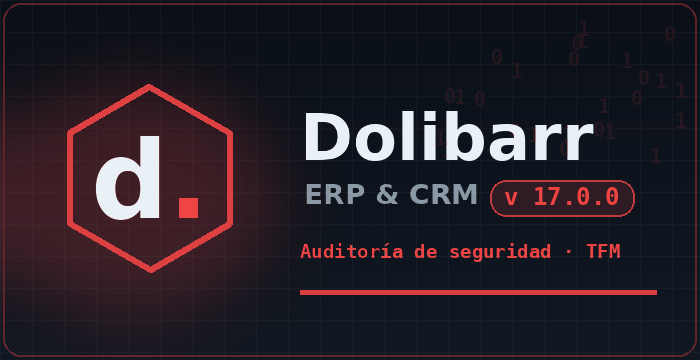
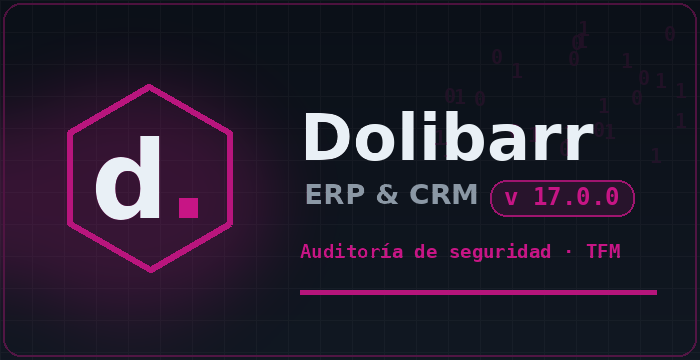
Dolibarr reescrito a fondo (TFM completo) + acento rosa oscuro; Updates home a 5 con badge "nueva"
- Dolibarr: write-up extenso con los 10 hallazgos (CVE/CVSS), cadena de ataque,
  controles que aguantan y metodologia OWASP; acento rosa oscuro (rojo solo para vulnerabilidades)
- Avatar y banner recoloreados a rosa oscuro
- Home: "Updates" muestra solo las 5 ultimas + badge "nueva" (posts < 48h) y enlace a todos
- Panel: "Maquinas destacadas" -> "Write-ups destacados"

diff --git a/_posts/2026-10-04-dolibarr.html b/_posts/2026-10-04-dolibarr.html
@@ -10,11 +10,12 @@ os: "Linux"
 difficulty: "Hard"
 thumb: "/assets/img/machines/dolibarr.png"
 banner: "/assets/img/machines/dolibarr-banner.png"
-description: "Mi TFM: auditoría de seguridad de Dolibarr ERP & CRM 17.0.0. RCE por un filtro sensible a mayúsculas (CVE-2023-30253), más RCE por campos calculados y XSS almacenado vía API REST."
+description: "Mi TFM: auditoría de seguridad de Dolibarr ERP & CRM 17.0.0 (OWASP ASVS, CVSS). 10 vulnerabilidades — 2 RCE y un XSS almacenado por API REST entre las críticas."
 toc: false
 status: "Resuelta"
 last_modified_at: "2026-10-04 18:00:00 +0200"
-accent: "239 68 68"
+accent: "199 21 133"
 ---
-<div class="hx-wu" data-os="lin" data-accent="239 68 68"><header class="hx-wu-head"><span class="hx-wu-img" style="background-image:url('/assets/img/machines/dolibarr.png')" role="img" aria-label="Dolibarr"></span><div class="hx-wu-headtext"><h1 class="hx-wu-title">Dolibarr</h1><p class="hx-wu-meta">Publicado por <b>Jaime Hereza Niño</b></p><div class="hx-wu-sub"><div class="hx-wu-dates"><span class="hx-wu-date"><i class="fas fa-calendar-day" aria-hidden="true"></i> Publicado 04/10/2026</span></div><span class="hx-wu-read"><i class="fas fa-clock" aria-hidden="true"></i> 5 min de lectura</span></div></div></header><table class="hx-wu-table"><thead><tr><th>Máquina</th><th>SO</th><th>Dificultad</th><th>IP</th></tr></thead><tbody><tr><td class="wu-name">Dolibarr</td><td class="wu-os wu-os-lin">Linux</td><td><span class="hx-badge hx-diff-hard">Hard</span></td><td class="wu-ip">127.0.0.1</td></tr></tbody></table><p class="hx-wu-note"><b><i>A tener en cuenta...</i></b></p><div class="hx-term2"><div class="hx-t-cmd"><span class="hx-t-ps1">┌──(<b>jaime</b>㉿<b>kali</b>)-[~]</span><span class="hx-t-ps2">└─$</span> <span class="hx-t-in">sudo nano /etc/hosts</span></div><div class="hx-t-out">127.0.0.1   dolibarr</div></div><nav class="hx-wu-index"><a href="#resumen" style="--c:255 94 135">Resumen</a><a href="#vulnerabilidad" style="--c:255 62 62">Vulnerabilidad</a><a href="#reconocimiento" style="--c:46 230 214">Reconocimiento</a><a href="#enumeracion" style="--c:94 180 248">Enumeración</a><a href="#explotacion" style="--c:255 175 0">Explotación</a><a href="#escalada" style="--c:193 108 255">Escalada de privilegios</a><a href="#arreglo" style="--c:46 230 214">Cómo se arregla</a><a href="#conclusiones" style="--c:200 210 220">Conclusiones</a></nav><section class="hx-wu-sec" id="resumen" style="--c:255 94 135"><h2>Resumen</h2><p>Dolibarr es distinto al resto del blog: no es una máquina de HackTheBox, es mi <span class="hx-cg">Trabajo Fin de Máster</span> de Ciberseguridad. Monté en laboratorio un <span class="hx-cg">Dolibarr ERP &amp;amp; CRM 17.0.0</span> (un ERP/CRM muy usado en pymes) y le hice una <span class="hx-cg">auditoría completa de caja gris</span> siguiendo metodología OWASP. Salieron <span class="hx-cg">10 vulnerabilidades, 3 de ellas críticas</span>: dos de <span class="hx-cg">ejecución remota de código</span> y un <span class="hx-cg">XSS almacenado a través de la API REST</span>. Aquí te resumo el camino a mi estilo; el informe entero (53 páginas, con CVSS, impacto y evidencias) lo tienes enlazado desde el Máster en <span class="hx-cg">Títulos</span>.</p></section><section class="hx-wu-sec" id="vulnerabilidad" style="--c:255 62 62"><h2>Vulnerabilidad</h2><p><span class="hx-cr">CVE-2023-30253 — RCE en el módulo «Sitios Web»</span></p><p>El módulo <span class="hx-cg">Sitios Web</span> permite crear páginas con código PHP y, para evitar abusos, <span class="hx-cg">filtra la etiqueta de apertura</span> <span class="hx-cc">&amp;lt;?php</span>. El problema es que el filtro es <span class="hx-cg">sensible a mayúsculas y minúsculas</span>: escribiendo <span class="hx-cc">&amp;lt;?pHp</span> se evade por completo, porque al intérprete de PHP le da igual la capitalización. Y como en ese editor <span class="hx-cg">no hay lista negra de funciones</span>, <span class="hx-ca">system()</span> se ejecuta sin restricción como <span class="hx-co">www-data</span>.</p><p><span class="hx-cr">RCE por campos calculados</span></p><p>Los <span class="hx-cg">campos calculados</span> se evalúan como PHP. Aquí sí existe una lista negra de funciones peligrosas, pero <span class="hx-cg">está incompleta</span>: basta emplear una función que no esté en la lista para ejecutar código (en la prueba devolvió la versión de PHP). Moraleja: las listas negras siempre se quedan cortas.</p><p><span class="hx-cr">XSS almacenado vía API REST</span></p><p>El saneamiento de la <span class="hx-ca">API REST</span> no cubre los vectores basados en <span class="hx-cg">atributos de eventos HTML</span>. Un payload introducido por la API se guarda <span class="hx-cg">sin sanear</span> y se ejecuta al visualizar el objeto en la interfaz web: un <span class="hx-cg">XSS almacenado</span> cuyo origen es la propia API.</p><p><span class="hx-cr">Credenciales de BD en texto plano (el eslabón)</span></p><p>El fichero <span class="hx-cc">conf.php</span> guarda la contraseña de MariaDB <span class="hx-cg">en claro</span> (la opción de cifrado que ofrece la aplicación está desactivada). Por sí solo ya es grave; combinado con el RCE es demoledor: con ejecución de comandos, se lee el fichero y se accede a toda la base de datos.</p></section><section class="hx-wu-sec" id="reconocimiento" style="--c:46 230 214"><h2>Reconocimiento</h2><p>La auditoría es de <span class="hx-cg">caja gris</span>: parto de una cuenta con <span class="hx-cg">privilegios bajos</span>, como un empleado cualquiera de la pyme. El objetivo corre en <span class="hx-cg">Docker</span>, publicado solo en loopback, así que identifico primero la pila</p><div class="hx-term2"><div class="hx-t-cmd"><span class="hx-t-ps1">┌──(<b>jaime</b>㉿<b>kali</b>)-[~]</span><span class="hx-t-ps2">└─$</span> <span class="hx-t-in">whatweb http://127.0.0.1</span></div><div class="hx-t-out"><span class="hx-cw">Dolibarr 17.0.0 [Apache/2.4.65 (Debian)] [PHP/8.1.34]</span></div></div><table class="hx-tbl" style="border-radius:12px"><tbody><tr><td style="border-top:1px solid #243244;border-left:1px solid #243244;text-align:center;font-weight:700;color:rgb(var(--page, 159 239 0))">Componente</td><td style="border-top:1px solid #243244;border-left:0;text-align:center;border-right:1px solid #243244;font-weight:700;color:rgb(var(--page, 159 239 0))">Versión</td></tr><tr><td style="border-top:3px solid rgb(var(--page, 159 239 0));border-left:1px solid #243244;text-align:left">Aplicación</td><td style="border-top:3px solid rgb(var(--page, 159 239 0));border-left:0;text-align:left;border-right:1px solid #243244">Dolibarr ERP &amp; CRM 17.0.0</td></tr><tr><td style="border-top:0;border-left:1px solid #243244;text-align:left">Servidor web</td><td style="border-top:0;border-left:0;text-align:left;border-right:1px solid #243244">Apache/2.4.65</td></tr><tr><td style="border-top:0;border-left:1px solid #243244;text-align:left">Intérprete</td><td style="border-top:0;border-left:0;text-align:left;border-right:1px solid #243244">PHP 8.1.34</td></tr><tr><td style="border-top:0;border-left:1px solid #243244;text-align:left">Base de datos</td><td style="border-top:0;border-left:0;text-align:left;border-right:1px solid #243244">MariaDB 10.6</td></tr><tr><td style="border-top:0;border-left:1px solid #243244;text-align:left;border-bottom:1px solid #243244">Despliegue</td><td style="border-top:0;border-left:0;text-align:left;border-bottom:1px solid #243244;border-right:1px solid #243244">Docker (php:8.1-apache)</td></tr></tbody></table><p>Una versión de Dolibarr <span class="hx-cg">desactualizada</span> es justo lo que queremos: arrastra vulnerabilidades conocidas y públicas con las que ejercitar la auditoría de principio a fin.</p></section><section class="hx-wu-sec" id="enumeracion" style="--c:94 180 248"><h2>Enumeración</h2><p>Con la cuenta de bajo privilegio reviso <span class="hx-cg">cabeceras</span>, componentes y, sobre todo, los <span class="hx-cg">módulos activos</span> de la instancia (un escenario típico de pyme): <span class="hx-cg">Terceros</span>, <span class="hx-cg">Usuarios y grupos</span>, <span class="hx-cg">API REST</span> y <span class="hx-cg">Sitios Web</span>.</p><p>De ahí salen las superficies jugosas:</p><ul class="hx-wu-list"><li>El módulo <span class="hx-cg">Sitios Web</span>, que deja crear páginas con <span class="hx-cg">PHP</span>.</li><li>Los <span class="hx-cg">campos calculados</span>, que se evalúan como código.</li><li>La <span class="hx-cg">API REST</span>, por donde se crean y modifican objetos de negocio.</li></ul><p>También anoto el resto de deficiencias para el informe: sin cifrado en tránsito, política de contraseñas floja, cabeceras y cookies mal configuradas, componentes desactualizados y mensajes de error que filtran versiones.</p></section><section class="hx-wu-sec" id="explotacion" style="--c:255 175 0"><h2>Explotación</h2><p>El vector estrella es el <span class="hx-cg">módulo Sitios Web</span>. Creo una página y, en el editor, meto el payload con la etiqueta de apertura <span class="hx-cg">capada en mayúsculas</span> para esquivar el filtro</p><div class="hx-term2"><div class="hx-t-out">&lt;?pHp system('id'); ?&gt;</div></div><p>Guardo la página y solicito su <span class="hx-cg">URL pública</span> de renderizado; al servirla, PHP ejecuta el comando</p><div class="hx-term2"><div class="hx-t-out">uid=33(www-data) gid=33(www-data) groups=33(www-data)</div></div><p><span class="hx-cw">Ya tenemos ejecución de comandos como www-data.</span></p><p>Los otros dos vectores van en la misma línea: en los <span class="hx-cg">campos calculados</span>, una función fuera de la lista negra me devuelve la versión de PHP (RCE confirmada); y por la <span class="hx-ca">API REST</span> inyecto un payload en un <span class="hx-cg">atributo de evento</span> que termina saltando como <span class="hx-cg">XSS almacenado</span> al abrir el objeto en el panel.</p></section><section class="hx-wu-sec" id="escalada" style="--c:193 108 255"><h2>Escalada de privilegios</h2><p>Con ejecución de comandos como <span class="hx-co">www-data</span>, el siguiente paso es claro: leer el fichero de configuración de la aplicación</p><div class="hx-term2"><div class="hx-t-out">www-data$ grep dolibarr_main_db_pass /var/www/html/conf/conf.php
-<span class="hx-cw">$dolibarr_main_db_pass='********';</span></div></div><p>La contraseña de <span class="hx-cg">MariaDB está en texto plano</span> (la opción de cifrado estaba desactivada). Con ella entro directamente a la base de datos y me hago con el <span class="hx-cg">control total de la información de negocio</span>: terceros, facturas, usuarios...</p><p>Esta es la <span class="hx-cg">cadena de ataque completa</span>: usuario de pocos privilegios (favorecido por una política de contraseñas floja) → <span class="hx-cg">RCE en Sitios Web</span> → comandos como <span class="hx-co">www-data</span> → credenciales del <span class="hx-cc">conf.php</span> → <span class="hx-cg">base de datos entera</span>. Una vulnerabilidad de severidad media acaba siendo el facilitador de un compromiso crítico.</p></section><section class="hx-wu-sec" id="arreglo" style="--c:46 230 214"><h2>Cómo se arregla</h2><p>Casi todo se corrige <span class="hx-cg">actualizando Dolibarr</span> (las versiones posteriores arreglan estos fallos), pero conviene verlo por capas:</p><ul class="hx-wu-list"><li><span class="hx-cw">Módulo Sitios Web:</span> no filtrar por cadena literal ni de forma sensible a mayúsculas; lo correcto es <span class="hx-cg">no evaluar PHP del usuario</span> o restringirlo con una lista blanca estricta.</li><li><span class="hx-cw">Campos calculados:</span> las listas negras de funciones siempre se sortean; mejor una <span class="hx-cg">lista blanca</span> o directamente un entorno sin ejecución de código.</li><li><span class="hx-cw">API REST:</span> sanear y escapar la salida también para los <span class="hx-cg">atributos de eventos HTML</span>, no solo las etiquetas.</li><li><span class="hx-cw">conf.php:</span> activar el <span class="hx-cg">cifrado de la contraseña</span> de la base de datos y restringir los permisos del fichero.</li><li><span class="hx-cw">Resto de hallazgos:</span> cifrado en tránsito (TLS), política de contraseñas sólida, cabeceras y cookies de seguridad, actualización de componentes y mensajes de error genéricos.</li></ul></section><section class="hx-wu-sec" id="conclusiones" style="--c:200 210 220"><h2>Conclusiones</h2><p>Dolibarr 17.0.0 demuestra algo que se repite en auditorías reales: <span class="hx-cg">un solo fallo de validación</span> (un filtro sensible a mayúsculas) basta para pasar de un usuario normal a <span class="hx-cg">ejecución de comandos</span>, y de ahí, tirando del <span class="hx-cc">conf.php</span>, al <span class="hx-cg">control total</span> del sistema.</p><p>También deja una idea muy clara: las <span class="hx-cg">listas negras</span> (de etiquetas o de funciones) son un parche que siempre se puede esquivar, frente a las <span class="hx-cg">listas blancas</span>, que deniegan por defecto.</p><p>Y lo más importante: casi todos los fallos están <span class="hx-cg">corregidos en versiones posteriores</span>, así que la mejor defensa sigue siendo <span class="hx-cg">mantener el software actualizado</span>. El informe completo con los 10 hallazgos, su CVSS, impacto y evidencias es mi <span class="hx-cg">TFM</span>, enlazado desde el Máster en Ciberseguridad en la pestaña de <span class="hx-cg">Títulos</span>.</p></section></div>
+<div class="hx-wu" data-os="lin" data-accent="199 21 133"><header class="hx-wu-head"><span class="hx-wu-img" style="background-image:url('/assets/img/machines/dolibarr.png')" role="img" aria-label="Dolibarr"></span><div class="hx-wu-headtext"><h1 class="hx-wu-title">Dolibarr</h1><p class="hx-wu-meta">Publicado por <b>Jaime Hereza Niño</b></p><div class="hx-wu-sub"><div class="hx-wu-dates"><span class="hx-wu-date"><i class="fas fa-calendar-day" aria-hidden="true"></i> Publicado 04/10/2026</span></div><span class="hx-wu-read"><i class="fas fa-clock" aria-hidden="true"></i> 7 min de lectura</span></div></div></header><table class="hx-wu-table"><thead><tr><th>Máquina</th><th>SO</th><th>Dificultad</th><th>IP</th></tr></thead><tbody><tr><td class="wu-name">Dolibarr</td><td class="wu-os wu-os-lin">Linux</td><td><span class="hx-badge hx-diff-hard">Hard</span></td><td class="wu-ip">127.0.0.1</td></tr></tbody></table><p class="hx-wu-note"><b><i>A tener en cuenta...</i></b></p><div class="hx-term2"><div class="hx-t-cmd"><span class="hx-t-ps1">┌──(<b>jaime</b>㉿<b>kali</b>)-[~]</span><span class="hx-t-ps2">└─$</span> <span class="hx-t-in">sudo nano /etc/hosts</span></div><div class="hx-t-out">127.0.0.1   dolibarr</div></div><nav class="hx-wu-index"><a href="#resumen" style="--c:255 94 135">Resumen</a><a href="#vulnerabilidad" style="--c:255 62 62">Vulnerabilidad</a><a href="#reconocimiento" style="--c:46 230 214">Reconocimiento</a><a href="#enumeracion" style="--c:94 180 248">Enumeración</a><a href="#explotacion" style="--c:255 175 0">Explotación</a><a href="#escalada" style="--c:193 108 255">Escalada de privilegios</a><a href="#arreglo" style="--c:46 230 214">Cómo se arregla</a><a href="#conclusiones" style="--c:200 210 220">Conclusiones</a></nav><section class="hx-wu-sec" id="resumen" style="--c:255 94 135"><h2>Resumen</h2><p>Dolibarr es especial: no es una box de HackTheBox, es mi <span class="hx-cg">Trabajo Fin de Máster</span> de Ciberseguridad. Monté un <span class="hx-cg">Dolibarr ERP &amp;amp; CRM 17.0.0</span> en laboratorio (Docker) y le hice una <span class="hx-cg">auditoría completa de caja gris</span> siguiendo <span class="hx-cg">OWASP ASVS 5.0</span> y <span class="hx-cg">OWASP Top 10</span>, puntuando cada hallazgo con <span class="hx-cg">CVSS v3.1</span> y entregando un informe con el formato que le darías a un cliente real.</p><p>El resultado: <span class="hx-cg">10</span> <span class="hx-cr">vulnerabilidades</span> confirmadas y explotadas — <span class="hx-co">3 críticas</span>, 1 alta, 2 medias y 4 bajas. Entre ellas, <span class="hx-cg">dos vectores de ejecución remota de código</span> y un <span class="hx-cg">XSS almacenado a través de la API REST</span> que acaban comprometiendo el servidor entero. Pero lo interesante no es solo lo que falla: también verifiqué <span class="hx-cg">controles que aguantan</span> (SQLi, IDOR, subida de ficheros, CSRF), lo que da una foto realista del estado de la aplicación.</p><p>Aquí traslado el recorrido a mi estilo; el <span class="hx-cg">informe completo</span> (53 páginas, con CVSS, impacto, recomendación y evidencias de cada hallazgo) es el TFM, enlazado desde el Máster en <span class="hx-cg">Títulos</span>.</p></section><section class="hx-wu-sec" id="vulnerabilidad" style="--c:255 62 62"><h2>Vulnerabilidad</h2><p>Este es el corazón del trabajo. Confirmé y exploté <span class="hx-cr">diez vulnerabilidades</span>; aquí van las que marcan la diferencia, con su CVE y su CVSS.</p><p><span class="hx-cr">01 · RCE en el módulo «Sitios Web» — CVE-2023-30253 (Crítica · 8.8)</span></p><p>El módulo «Sitios Web» permite crear páginas con código PHP y, para evitar abusos, <span class="hx-cg">filtra la etiqueta de apertura</span> <span class="hx-cc">&amp;lt;?php</span>. El filtro es <span class="hx-cg">sensible a mayúsculas</span>: con <span class="hx-cc">&amp;lt;?pHp</span> se evade por completo, porque al intérprete le da igual la capitalización. Y como ahí <span class="hx-cg">no hay lista negra de funciones</span>, <span class="hx-ca">system()</span> se ejecuta tal cual como <span class="hx-co">www-data</span>. Corregido a partir de la 17.0.1.</p><p><span class="hx-cr">02 · Credenciales de BD en texto plano — Crítica (9.1)</span></p><p>El <span class="hx-cc">conf.php</span> guarda la contraseña de MariaDB <span class="hx-cg">en claro</span>: la opción de cifrado existe, pero viene <span class="hx-cg">desactivada por defecto</span>. Suena a poco, pero es el <span class="hx-cg">eslabón</span> que convierte una ejecución de comandos limitada en control total de la base de datos.</p><p><span class="hx-cr">03 · XSS almacenado vía API REST — CVE-2023-38888 (Crítica · 9.6)</span></p><p>La API REST saneaba la entrada... pero <span class="hx-cg">no los atributos de eventos HTML</span> (<span class="hx-ca">onerror</span>, <span class="hx-ca">onload</span>). Un payload metido por la API en un campo de un <span class="hx-cg">tercero</span> se guarda sin sanear y <span class="hx-cg">salta al abrir la ficha</span> en el panel — incluso si quien la abre es un <span class="hx-co">administrador</span>. Permite robar sesiones y hasta el <span class="hx-cg">token anti-CSRF</span>, abriendo la puerta a encadenar otros ataques.</p><p><span class="hx-cr">04 · RCE por campos calculados — CVE-2024-40137 (Alta · 7.2)</span></p><p>Los «campos adicionales» tienen un «valor calculado» que se evalúa como PHP con <span class="hx-cc">dol_eval()</span>. Aquí sí hay lista negra de funciones, pero <span class="hx-cg">incompleta</span>: con una función no filtrada (<span class="hx-cc">phpversion()</span>) se ejecuta código igual (devolvió la 8.1.34). La lección de siempre: <span class="hx-cg">las listas negras se quedan cortas</span>.</p><p>Y, por debajo, media docena de severidad media/baja que salen en el escaneo: <span class="hx-cg">sin HTTPS</span>, <span class="hx-cg">política de contraseñas floja</span>, <span class="hx-cg">cabeceras</span> y <span class="hx-cg">cookies</span> mal puestas, <span class="hx-cg">jQuery desactualizado</span> y <span class="hx-cg">fuga de información en los errores</span>. Las desgrano en Enumeración.</p></section><section class="hx-wu-sec" id="reconocimiento" style="--c:46 230 214"><h2>Reconocimiento</h2><p>La auditoría es de <span class="hx-cg">caja gris</span>: arranco con una cuenta de <span class="hx-cg">privilegios bajos</span>, como un empleado cualquiera de la pyme. El objetivo corre en <span class="hx-cg">Docker</span> y se publica solo en loopback, así que lo primero es fijar la pila</p><div class="hx-term2"><div class="hx-t-cmd"><span class="hx-t-ps1">┌──(<b>jaime</b>㉿<b>kali</b>)-[~]</span><span class="hx-t-ps2">└─$</span> <span class="hx-t-in">whatweb http://127.0.0.1</span></div><div class="hx-t-out"><span class="hx-cw">Dolibarr 17.0.0 [Apache/2.4.65 (Debian)] [PHP/8.1.34]</span></div></div><table class="hx-tbl" style="border-radius:12px"><tbody><tr><td style="border-top:1px solid #243244;border-left:1px solid #243244;text-align:center;font-weight:700;color:rgb(var(--page, 159 239 0))">Componente</td><td style="border-top:1px solid #243244;border-left:0;text-align:center;border-right:1px solid #243244;font-weight:700;color:rgb(var(--page, 159 239 0))">Versión</td></tr><tr><td style="border-top:3px solid rgb(var(--page, 159 239 0));border-left:1px solid #243244;text-align:left">Aplicación</td><td style="border-top:3px solid rgb(var(--page, 159 239 0));border-left:0;text-align:left;border-right:1px solid #243244">Dolibarr ERP &amp; CRM 17.0.0</td></tr><tr><td style="border-top:0;border-left:1px solid #243244;text-align:left">Servidor web</td><td style="border-top:0;border-left:0;text-align:left;border-right:1px solid #243244">Apache/2.4.65 (Debian)</td></tr><tr><td style="border-top:0;border-left:1px solid #243244;text-align:left">Intérprete</td><td style="border-top:0;border-left:0;text-align:left;border-right:1px solid #243244">PHP 8.1.34</td></tr><tr><td style="border-top:0;border-left:1px solid #243244;text-align:left">Base de datos</td><td style="border-top:0;border-left:0;text-align:left;border-right:1px solid #243244">MariaDB 10.6</td></tr><tr><td style="border-top:0;border-left:1px solid #243244;text-align:left">Despliegue</td><td style="border-top:0;border-left:0;text-align:left;border-right:1px solid #243244">Docker (php:8.1-apache)</td></tr><tr><td style="border-top:0;border-left:1px solid #243244;text-align:left;border-bottom:1px solid #243244">Objetivo</td><td style="border-top:0;border-left:0;text-align:left;border-bottom:1px solid #243244;border-right:1px solid #243244">http://127.0.0.1:80</td></tr></tbody></table><p>El laboratorio y el enfoque siguen una <span class="hx-cg">metodología profesional</span>: <span class="hx-cg">OWASP ASVS 5.0</span> (nivel 1) y <span class="hx-cg">OWASP Top 10</span> como marco, <span class="hx-cg">CVSS v3.1</span> para puntuar, y herramientas como <span class="hx-cg">Burp Suite</span> y <span class="hx-cg">testssl.sh</span>. La versión está <span class="hx-cg">desactualizada</span> a propósito: así arrastra fallos conocidos con los que recorrer la auditoría de principio a fin.</p></section><section class="hx-wu-sec" id="enumeracion" style="--c:94 180 248"><h2>Enumeración</h2><p>Con la cuenta de bajo privilegio reviso la aplicación a fondo. Los módulos activos de una pyme típica (<span class="hx-cg">Terceros</span>, <span class="hx-cg">Usuarios</span>, <span class="hx-cg">API REST</span> y <span class="hx-cg">Sitios Web</span>) ya apuntan las superficies jugosas, pero el escaneo saca además varias deficiencias de configuración:</p><ul class="hx-wu-list"><li><span class="hx-cw">Sin cifrado en tránsito:</span> <span class="hx-cc">testssl.sh</span> confirma que no se ofrece ningún protocolo seguro ni hay certificado — todo viaja en HTTP, credenciales incluidas &lt;i&gt;(Media · 5.9)&lt;/i&gt;.</li><li><span class="hx-cw">Política de contraseñas floja:</span> el validador «Standard» solo exige 12 caracteres, sin complejidad. Coló <span class="hx-cc">contraseñadebil</span> sin pestañear, y no hay bloqueo por intentos &lt;i&gt;(Media · 5.3)&lt;/i&gt;.</li><li><span class="hx-cw">Cabeceras:</span> faltan <span class="hx-ca">Content-Security-Policy</span>, <span class="hx-ca">HSTS</span> y <span class="hx-ca">Permissions-Policy</span>, y <span class="hx-ca">Server</span>/<span class="hx-ca">X-Powered-By</span> cantan las versiones exactas &lt;i&gt;(Baja · 3.7)&lt;/i&gt;.</li><li><span class="hx-cw">Cookies:</span> <span class="hx-cc">DOLSESSID</span> sin <span class="hx-ca">Secure</span> y <span class="hx-cc">DOLINSTALLNOPING</span> sin <span class="hx-ca">HttpOnly</span> y con <span class="hx-ca">SameSite=None</span> &lt;i&gt;(Baja · 3.1)&lt;/i&gt;.</li><li><span class="hx-cw">Software desactualizado:</span> <span class="hx-cg">jQuery 3.6.0</span> y <span class="hx-cg">jQuery UI 1.13.2</span> &lt;i&gt;(Baja · 3.1)&lt;/i&gt;.</li><li><span class="hx-cw">Fuga en errores:</span> <span class="hx-cc">display_errors</span> activo revela rutas internas (<span class="hx-cc">/var/www/html/...</span>) y la versión de Apache en los 404 &lt;i&gt;(Baja · 3.7)&lt;/i&gt;.</li></ul><p>Ninguna tumba el servidor por sí sola, pero <span class="hx-cg">allanan el terreno</span> y amplifican las críticas (la falta de CSP, por ejemplo, deja al XSS campar a sus anchas).</p></section><section class="hx-wu-sec" id="explotacion" style="--c:255 175 0"><h2>Explotación</h2><p>Toca convertir los hallazgos en ejecución real.</p><p><span class="hx-cg">RCE en «Sitios Web».</span> Creo una página en el módulo y, en el editor, meto el payload con la etiqueta capada en mayúsculas para esquivar el filtro</p><div class="hx-term2"><div class="hx-t-out">&lt;?pHp system('id'); ?&gt;</div></div><p>Pido la <span class="hx-cg">URL pública</span> de la página y, al renderizarse, PHP ejecuta el comando</p><div class="hx-term2"><div class="hx-t-out">uid=33(www-data) gid=33(www-data) groups=33(www-data)</div></div><p><span class="hx-cw">Ejecución de comandos como www-data.</span></p><p><span class="hx-cg">RCE por campos calculados.</span> En un «valor calculado» (que pasa por <span class="hx-cc">dol_eval()</span>) meto una función fuera de la lista negra</p><div class="hx-term2"><div class="hx-t-out">phpversion()</div></div><div class="hx-term2"><div class="hx-t-out">8.1.34</div></div><p>Código PHP ejecutado en el servidor, lista negra esquivada.</p><p><span class="hx-cg">XSS almacenado por la API.</span> Mando por la <span class="hx-ca">API REST</span> un tercero con un atributo de evento en un campo de texto</p><div class="hx-term2"><div class="hx-t-cmd"><span class="hx-t-ps1">┌──(<b>jaime</b>㉿<b>kali</b>)-[~]</span><span class="hx-t-ps2">└─$</span> <span class="hx-t-in">curl -X POST http://127.0.0.1/api/index.php/thirdparties \</span></div><div class="hx-t-out">    -H 'DOLAPIKEY: &amp;lt;token&amp;gt;' -H 'Content-Type: application/json' \
+    -d '{"name":"&amp;lt;img src=x onerror=alert(document.cookie)&amp;gt;"}'</div></div><p>El payload se guarda sin sanear y <span class="hx-cg">salta solo</span> al abrir la ficha del tercero en el panel — también si quien la abre es un <span class="hx-co">administrador</span>.</p></section><section class="hx-wu-sec" id="escalada" style="--c:193 108 255"><h2>Escalada de privilegios</h2><p>El RCE me deja como <span class="hx-co">www-data</span>, un usuario limitado. El salto a <span class="hx-cg">control total</span> lo da el hallazgo 02: leo el fichero de configuración</p><div class="hx-term2"><div class="hx-t-out">www-data$ grep dolibarr_main_db_pass /var/www/html/conf/conf.php
+<span class="hx-cw">$dolibarr_main_db_pass='********';</span></div></div><p>Contraseña de <span class="hx-cg">MariaDB en texto plano</span>. Con ella entro a la base de datos y me llevo <span class="hx-cg">todo</span>: terceros, facturas, usuarios y sus hashes.</p><p>La <span class="hx-cg">cadena completa</span> queda así: contraseña floja → cuenta de bajo privilegio → <span class="hx-cg">RCE en «Sitios Web»</span> → comandos como <span class="hx-co">www-data</span> → <span class="hx-cc">conf.php</span> → <span class="hx-cg">base de datos entera</span>. Una debilidad «media» (la política de contraseñas) acaba siendo el facilitador de un compromiso crítico.</p><p>Y algo que me pareció importante documentar: <span class="hx-cg">no todo falla</span>. Puse a prueba y <span class="hx-cg">aguantaron</span> la inyección <span class="hx-cg">SQL</span> (consultas parametrizadas y listas blancas de campos), el <span class="hx-cg">control de acceso</span> (IDOR denegado con un usuario de pocos permisos), la <span class="hx-cg">subida de ficheros</span> y el <span class="hx-cg">path traversal</span> (neutralizados con sufijos y saneo de rutas) y el <span class="hx-cg">CSRF</span> (petición rechazada sin token). La seguridad de una aplicación <span class="hx-cg">no es homogénea</span>.</p></section><section class="hx-wu-sec" id="arreglo" style="--c:46 230 214"><h2>Cómo se arregla</h2><p>El informe lleva una recomendación por hallazgo, pero el resumen por capas es:</p><ul class="hx-wu-list"><li><span class="hx-cw">Actualizar Dolibarr:</span> los dos RCE y el XSS están corregidos a partir de la <span class="hx-cg">17.0.1</span>. Es la medida número uno.</li><li><span class="hx-cw">Validación por lista blanca:</span> en «Sitios Web», no evaluar PHP del usuario (o filtrar de forma insensible a mayúsculas contemplando todas las variantes); en campos calculados, cambiar la lista negra por <span class="hx-cg">lista blanca</span> o quitar la evaluación dinámica de código.</li><li><span class="hx-cw">Codificar la salida + CSP:</span> sanear también los atributos de evento (<span class="hx-ca">onerror</span>, <span class="hx-ca">onload</span>) y añadir <span class="hx-ca">Content-Security-Policy</span> para frenar el XSS.</li><li><span class="hx-cw">Cifrar el conf.php:</span> activar el cifrado de la contraseña de BD y restringir los permisos del fichero.</li><li><span class="hx-cw">HTTPS:</span> servir solo por TLS, redirigir todo el HTTP y marcar las cookies <span class="hx-ca">Secure</span> y <span class="hx-ca">HttpOnly</span>.</li><li><span class="hx-cw">Resto:</span> validador «Perso» con complejidad y bloqueo por intentos, cabeceras de seguridad, actualizar jQuery/jQuery UI y desactivar <span class="hx-cc">display_errors</span> en producción.</li></ul></section><section class="hx-wu-sec" id="conclusiones" style="--c:200 210 220"><h2>Conclusiones</h2><p>Dolibarr 17.0.0 <span class="hx-cg">no es apta para producción sin actualizar</span>: acumula críticas de ejecución de código y de validación de entrada. El resumen de severidades de las 10 <span class="hx-cr">vulnerabilidades</span>:</p><table class="hx-tbl" style="border-radius:12px"><tbody><tr><td style="border-top:1px solid #243244;border-left:1px solid #243244;text-align:center;font-weight:700;color:rgb(var(--page, 159 239 0))">Severidad</td><td style="border-top:1px solid #243244;border-left:0;text-align:center;border-right:1px solid #243244;font-weight:700;color:rgb(var(--page, 159 239 0))">Hallazgos</td></tr><tr><td style="border-top:3px solid rgb(var(--page, 159 239 0));border-left:1px solid #243244;text-align:left">Crítica (9.0–10.0)</td><td style="border-top:3px solid rgb(var(--page, 159 239 0));border-left:0;text-align:left;border-right:1px solid #243244">3</td></tr><tr><td style="border-top:0;border-left:1px solid #243244;text-align:left">Alta (7.0–8.9)</td><td style="border-top:0;border-left:0;text-align:left;border-right:1px solid #243244">1</td></tr><tr><td style="border-top:0;border-left:1px solid #243244;text-align:left">Media (4.0–6.9)</td><td style="border-top:0;border-left:0;text-align:left;border-right:1px solid #243244">2</td></tr><tr><td style="border-top:0;border-left:1px solid #243244;text-align:left;border-bottom:1px solid #243244">Baja (0.1–3.9)</td><td style="border-top:0;border-left:0;text-align:left;border-bottom:1px solid #243244;border-right:1px solid #243244">4</td></tr></tbody></table><p>Lo más interesante del análisis es el <span class="hx-cg">contraste</span>: mientras las defensas frente a la ejecución de código fallan (filtros sensibles a mayúsculas, listas negras evadibles), los controles de acceso a ficheros y a objetos <span class="hx-cg">aguantan</span>. Eso demuestra que un enfoque de <span class="hx-cg">lista negra</span> es intrínsecamente más frágil que uno de <span class="hx-cg">lista blanca + codificación de salida</span>.</p><p>Y la moraleja de siempre: casi todo se arregla <span class="hx-cg">actualizando</span>. El <span class="hx-cg">informe completo</span> (53 páginas, metodología OWASP ASVS 5.0, los 10 hallazgos con CVSS, impacto, recomendación y evidencias) es mi <span class="hx-cg">TFM</span>, enlazado desde el Máster en Títulos.</p></section></div>

diff --git a/_layouts/home.html b/_layouts/home.html
@@ -60,12 +60,16 @@ layout: default
 {% endif %}
 
 <div id="post-list" class="hx-mlist flex-grow-1 px-xl-1">
-  {% for post in posts %}
+  {% assign now_s = site.time | date: '%s' | plus: 0 %}
+  {% for post in site.posts limit: 5 %}
     {% assign os_down = post.os | default: '' | downcase %}
     {% if os_down contains 'windows' %}{% assign os_key = 'windows' %}
     {% elsif os_down contains 'linux' %}{% assign os_key = 'linux' %}
     {% else %}{% assign os_key = 'otros' %}{% endif %}
+    {% assign post_s = post.last_modified_at | default: post.date | date: '%s' | plus: 0 %}
+    {% assign age = now_s | minus: post_s %}
     <a class="hx-mcard" data-os="{{ os_key }}" data-diff="{{ post.difficulty | default: '' | downcase }}" href="{{ post.url | relative_url }}" data-name="{{ post.machine | default: post.title | downcase }}" data-platform="{{ post.platform | default: '' | downcase | remove: ' ' }}"{% if post.accent %} style="--m: {{ post.accent }}"{% endif %}>
+      {% if age >= 0 and age < 172800 %}<span class="hx-new"><span class="hx-new-dot" aria-hidden="true"></span>nueva</span>{% endif %}
       <span class="hx-mcard-img{% unless post.thumb %} hx-mcard-ph{% endunless %}"{% if post.thumb %} style="background-image:url('{{ post.thumb | relative_url }}')"{% endif %}>
         {% unless post.thumb %}{% if os_down contains 'windows' %}<i class="fab fa-windows"></i>{% elsif os_down contains 'linux' %}<i class="fab fa-linux"></i>{% else %}<i class="fas fa-server"></i>{% endif %}{% endunless %}
       </span>
@@ -82,6 +86,4 @@ layout: default
 </div>
 <!-- #post-list -->
 
-{% if paginator.total_pages > 1 %}
-  {% include post-paginator.html %}
-{% endif %}
+<a class="hx-updates-all" href="{{ '/writeups/' | relative_url }}">Ver todos los write-ups <i class="fas fa-arrow-right" aria-hidden="true"></i></a>

diff --git a/assets/css/hacker.css b/assets/css/hacker.css
@@ -4762,3 +4762,46 @@ a[href*="/tags/windows/"] { --c: 46 230 214 !important; }   /* windows · cian *
   color: var(--hx-muted);
 }
 .hx-feat-empty i { font-size: 1.1rem; opacity: 0.45; }
+
+/* ====== Badge "nueva" (posts < 48h) en las tarjetas de Updates ====== */
+.hx-mcard { position: relative; }
+.hx-new {
+  position: absolute;
+  top: 0.55rem;
+  right: 0.6rem;
+  z-index: 2;
+  display: inline-flex;
+  align-items: center;
+  gap: 0.32rem;
+  padding: 0.14rem 0.55rem;
+  border-radius: 999px;
+  font-family: var(--hx-mono);
+  font-size: 0.62rem;
+  font-weight: 700;
+  text-transform: uppercase;
+  letter-spacing: 0.06em;
+  color: #2ee6d6;
+  background: rgb(46 230 214 / 12%);
+  border: 1px solid rgb(46 230 214 / 45%);
+}
+.hx-new-dot {
+  width: 6px;
+  height: 6px;
+  border-radius: 50%;
+  background: #2ee6d6;
+  box-shadow: 0 0 6px #2ee6d6;
+  animation: hx-pulse 1.8s ease-out infinite;
+}
+.hx-updates-all {
+  display: inline-flex;
+  align-items: center;
+  gap: 0.4rem;
+  margin: 0.1rem 0 0.4rem;
+  font-family: var(--hx-mono);
+  font-size: 0.82rem;
+  font-weight: 600;
+  color: rgb(46 230 214) !important;
+  text-decoration: none;
+}
+.hx-updates-all i { transition: transform 0.2s; }
+.hx-updates-all:hover i { transform: translateX(4px); }

diff --git a/_includes/update-list.html b/_includes/update-list.html
@@ -105,7 +105,7 @@
 
 {%- if dest.maquinas -%}
   <section class="hx-widget hx-feat hx-feat-maq">
-    <h2 class="panel-heading hx-widget-title"><i class="fas fa-star" aria-hidden="true"></i> Máquinas destacadas</h2>
+    <h2 class="panel-heading hx-widget-title"><i class="fas fa-star" aria-hidden="true"></i> Write-ups destacados</h2>
     <div class="hx-feat-grid">
       {%- for m in dest.maquinas limit: 3 -%}
         {%- if m.nombre -%}
